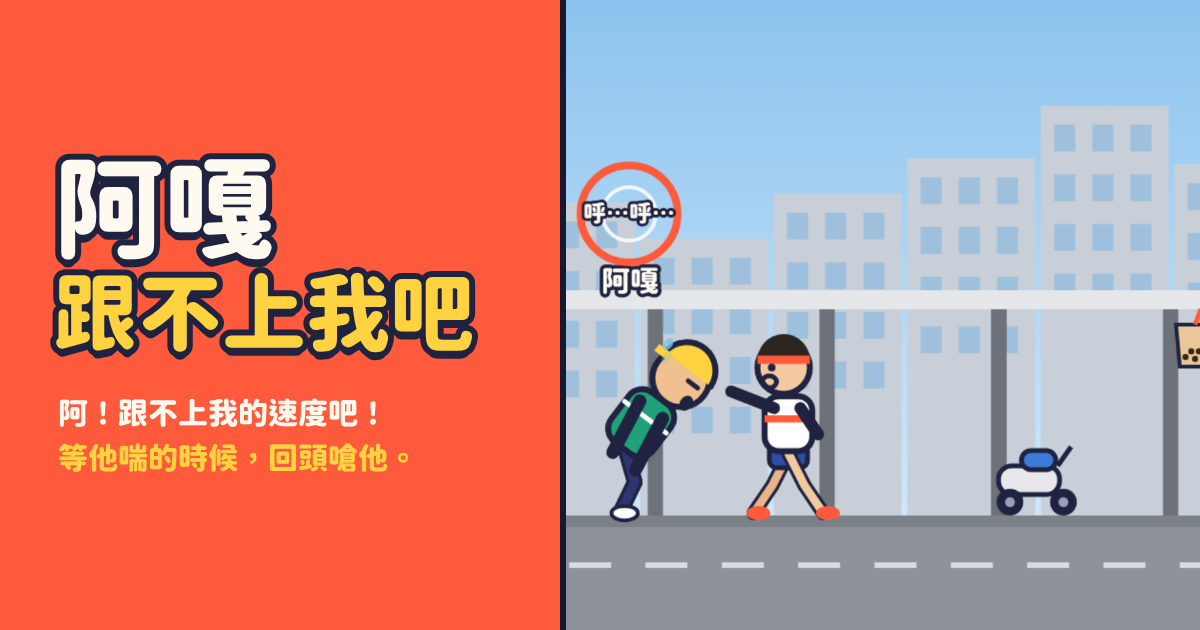
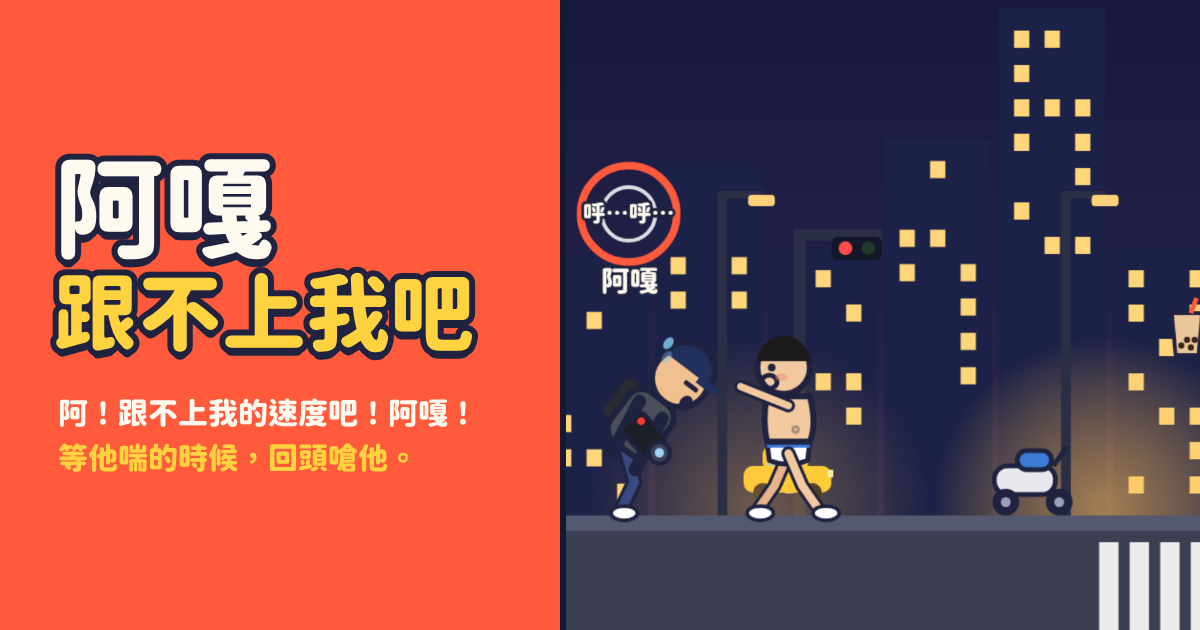
阿嘎跟不上我吧：改成深夜的大道
- 場景改成一路深夜：高架橋下、十字路口、騎樓店家前、半夜空蕩的大道
- 跑在前面的改成只穿一條內褲和球鞋；阿嘎改成舉著攝影機跟拍，畫面左上角有 REC 計時
- 要鏟過去的東西改成停車場柵欄、路牌、騎樓招牌、施工警示帶
- 嗆聲和阿嘎的台詞、封號、被追上時的那一句跟著換
- 跑步的手臂改成一隻在身體後面、一隻在前面
- 預覽圖、首頁卡片和說明跟著更新

Claude-Session: https://claude.ai/code/session_01KxDmhWxjQ4a2uP9nZWftUY

diff --git a/aga/index.html b/aga/index.html
@@ -3,20 +3,20 @@
 <head>
 <meta charset="utf-8">
 <meta name="viewport" content="width=device-width, initial-scale=1, maximum-scale=1, viewport-fit=cover, user-scalable=no">
-<meta name="description" content="阿！跟不上我的速度吧，阿嘎！一路往前跑，跳過機車、鏟過招牌，阿嘎在後面追。等他追到喘的時候回頭嗆他，看你能跑多遠。">
-<meta name="theme-color" content="#3a8fd9">
+<meta name="description" content="深夜的大道上只穿一條內褲往前衝，後面的阿嘎扛著攝影機在追。跳過機車、鏟過路牌，等他追到喘的時候回頭嗆他：阿！跟不上我的速度吧！阿嘎！">
+<meta name="theme-color" content="#151a33">
 <link rel="canonical" href="https://stevenchiang88.github.io/trash_game/aga/">
 <link rel="icon" href="favicon.svg" type="image/svg+xml">
 <link rel="apple-touch-icon" href="apple-touch-icon.png">
 <meta property="og:type" content="website">
 <meta property="og:site_name" content="阿嘎跟不上我吧">
-<meta property="og:title" content="阿嘎跟不上我吧｜阿！跟不上我的速度吧！">
-<meta property="og:description" content="一路往前跑，跳過機車、鏟過招牌，阿嘎在後面追。等他追到喘的時候回頭嗆他，看你能跑多遠。">
+<meta property="og:title" content="阿嘎跟不上我吧｜阿！跟不上我的速度吧！阿嘎！">
+<meta property="og:description" content="深夜的大道上只穿一條內褲往前衝，後面的阿嘎扛著攝影機在追。跳過機車、鏟過路牌，等他追到喘的時候回頭嗆他：阿！跟不上我的速度吧！阿嘎！">
 <meta property="og:url" content="https://stevenchiang88.github.io/trash_game/aga/">
 <meta property="og:image" content="https://stevenchiang88.github.io/trash_game/aga/og.png">
 <meta property="og:image:width" content="1200">
 <meta property="og:image:height" content="630">
-<meta property="og:image:alt" content="一個男生在街上邊跑邊回頭嗆聲，後面一個人追得滿頭大汗">
+<meta property="og:image:alt" content="深夜的大道上，一個只穿內褲的男生邊跑邊回頭嗆聲，後面扛攝影機的人追得彎腰喘氣">
 <meta property="og:locale" content="zh_TW">
 <meta name="twitter:card" content="summary_large_image">
 <style>
@@ -30,14 +30,14 @@
 <meta name="claude:viewport-fit-sides" content="cover">
 <link rel="stylesheet" href="https://fonts.googleapis.com/css2?family=Chiron+GoRound+TC:wght@500;900&family=Fredoka:wght@600;700&display=swap">
 <style>
-/* 版面：從側面看的街道，他從左往右一直跑，阿嘎從左邊追上來。
+/* 版面：從側面看深夜的大道，他只穿一條內褲從左往右一直跑，扛著攝影機的阿嘎從左邊追上來。
    上面是跑了幾公尺和阿嘎離你多遠；下面是「嗆！」按鈕。點畫面跳、往下滑鏟地、往左滑或按「嗆！」回頭嗆聲 */
 :root{
   --ink:#1f2340;        /* 描邊與文字 */
   --paper:#fffaf0;      /* 卡片 */
   --hot:#ff5a3c;        /* 主色：嗆聲、危險 */
   --sun:#ffd23f;        /* 按鈕、強調 */
-  --sky:#3a8fd9;
+  --sky:#151a33;
   --ok:#2fae6f;
   --backdrop:#151a33;
   --display:"Fredoka","Chiron GoRound TC","PingFang TC","Microsoft JhengHei",sans-serif;
@@ -59,6 +59,10 @@ body{background:var(--backdrop);color:var(--ink);font-family:var(--body);font-we
 .gap{display:flex;align-items:center;gap:6px;font-weight:900;font-size:13px;color:var(--paper);text-shadow:var(--sticker)}
 .gap b{font-family:var(--display);font-size:20px;font-variant-numeric:tabular-nums}
 .gap.near b{color:var(--hot)}
+.rec{display:flex;align-items:center;gap:5px;font-weight:900;font-size:12px;color:#fff;text-shadow:var(--sticker)}
+.rec i{width:9px;height:9px;border-radius:50%;background:#ff3b30;border:1.5px solid var(--ink);animation:recb 1s steps(2) infinite}
+.rec b{font-family:var(--display);font-size:14px;font-variant-numeric:tabular-nums}
+@keyframes recb{50%{opacity:.2}}
 .combo{font-weight:900;font-size:13px;color:var(--sun);text-shadow:var(--sticker);min-height:1.2em}
 .side{display:flex;flex-direction:column;gap:8px}
 .icon-btn{pointer-events:auto;width:40px;height:40px;display:grid;place-items:center;border:2.5px solid var(--ink);border-radius:50%;background:var(--paper);color:var(--ink);cursor:pointer;padding:0}
@@ -111,13 +115,14 @@ body{background:var(--backdrop);color:var(--ink);font-family:var(--body);font-we
 </head>
 <body>
 <div id="game">
-  <canvas id="c" aria-label="一個男生在街上往右跑，後面有人在追"></canvas>
+  <canvas id="c" aria-label="深夜的大道上，一個只穿內褲的男生往右跑，後面扛攝影機的人在追"></canvas>
 
   <div class="hud" id="hud" hidden>
     <div class="top">
       <div class="left">
         <div class="dist"><b id="dist">0</b><small>公尺</small></div>
         <div class="gap" id="gapBox">阿嘎離你 <b id="gap">0</b> 公尺</div>
+        <div class="rec"><i></i>REC <b id="recT">00:00</b></div>
         <div class="combo" id="combo"></div>
       </div>
       <div class="side">
@@ -134,7 +139,7 @@ body{background:var(--backdrop);color:var(--ink);font-family:var(--body);font-we
 
   <div class="screen" id="title">
     <h1 class="logo">阿嘎<span>跟不上我吧</span></h1>
-    <p class="tag">阿！跟不上我的速度吧，阿嘎！</p>
+    <p class="tag">阿！跟不上我的速度吧！阿嘎！</p>
     <ul class="how">
       <li><b>點一下</b> 跳</li>
       <li><b>往下滑</b> 鏟地</li>
@@ -169,7 +174,7 @@ body{background:var(--backdrop);color:var(--ink);font-family:var(--body);font-we
   <div class="screen" id="pause" hidden>
     <div class="card">
       <p class="verdict">暫停中</p>
-      <p class="note">離開畫面會自動暫停。阿嘎也會等你，按「繼續」就接著跑。</p>
+      <p class="note">離開畫面會自動暫停。阿嘎也會停下來等你，按「繼續」就接著跑。</p>
       <div class="acts"><button class="btn" id="resume" type="button">繼續</button></div>
     </div>
   </div>
@@ -196,19 +201,20 @@ const JUMP_V=560,GRAV=1500,SLIDE_T=.8,CK=1.25,STAND_H=54*CK,SLIDE_H=24*CK,HALF_W
 const V0=6.5,V_D=.0055,V_MAX=13.5,CH0=.35,CH_D=1/650,GAP0=12,GAP_MAX=22,CATCH=.6;
 const PANT_GAP=[5,7.5],PANT_T=1.05,PERFECT=.4,STUN=[1.2,1.75],RAGE_T=1.5,RAGE_V=2.4,TAUNT_T=.5,TAUNT_CD=.9;
 const STUM_T=1,STUM_K=.35,INV_T=1.1,TEA_T=2.5,TEA_K=1.35;
-const SCENES=[{at:0,name:'學校操場',sky:['#7cc4f0','#bfe6ff'],ground:'#c96a3f',line:'#f4e3c8',kinds:['cone','bin','puddle','banner']},
-  {at:300,name:'騎樓街道',sky:['#5aa9e6','#cfe8fb'],ground:'#8e939b',line:'#d9dce0',kinds:['scooter','bin','sign','dog','cone']},
-  {at:700,name:'夜市',sky:['#22244a','#5b3a6e'],ground:'#5c5f66',line:'#9a9da3',kinds:['scooter','stall','puddle','dog','bin']},
-  {at:1100,name:'河濱夜跑',sky:['#0f1838','#27406e'],ground:'#4c6b4a',line:'#7d9a7a',kinds:['cone','dog','branch','puddle','scooter']}];
+// 一路都是深夜的大道：高架橋下 → 十字路口 → 騎樓店家前 → 半夜空蕩的大道
+const SCENES=[{at:0,name:'高架橋下',kinds:['cone','bin','puddle','gate']},
+  {at:300,name:'十字路口',kinds:['scooter','cone','sign','dog','bin']},
+  {at:700,name:'騎樓店家前',kinds:['scooter','shop','puddle','dog','bin']},
+  {at:1100,name:'半夜空蕩的大道',kinds:['cone','dog','tape','puddle','scooter']}];
 const sceneAt=d=>{let s=SCENES[0];for(const q of SCENES)if(d>=q.at)s=q;return s;};
-// 東西：w、h 是像素；low 要跳、high 要鏟、flat 是水窪（跳過去才不會滑一下）
+// 東西：w、h 是像素；low 要跳、high 要鏟（停車場柵欄、路牌、騎樓招牌、施工警示帶）、flat 是水窪（跳過去才不會滑一下）
 const KIND={cone:{w:14,h:26,t:'low'},bin:{w:22,h:36,t:'low'},scooter:{w:36,h:34,t:'low'},dog:{w:28,h:24,t:'low',v:-1.4},puddle:{w:40,h:4,t:'flat'},
-  banner:{w:40,t:'high'},sign:{w:38,t:'high'},stall:{w:46,t:'high'},branch:{w:44,t:'high'}};
+  gate:{w:44,t:'high'},sign:{w:38,t:'high'},shop:{w:46,t:'high'},tape:{w:44,t:'high'}};
 const HIGH_BOT=GROUND-46;
-const RANKS=[[2000,'阿嘎永遠追不上的男人'],[1500,'河濱一陣風'],[1100,'夜市飛毛腿'],[700,'跑給阿嘎追專家'],[300,'有點快'],[100,'剛熱身'],[0,'一下就被抓到']];
-const TAUNTS=['阿！跟不上我的速度吧，阿嘎！','跟不上我的速度吧！','阿嘎，你太慢了啦！','追得到再說啦！'];
-const AGA_MAD=['你給我站住！','等一下啦！','你再說一次！','可惡！'];
-const AGA_FIRE=['被你看穿了喔？','好啊，衝了喔！','你等著！'];
+const RANKS=[[2000,'阿嘎永遠跟不上的男人'],[1500,'半夜最快的男人'],[1100,'大道飛人'],[700,'跑過三個路口'],[300,'有點快'],[100,'剛熱身'],[0,'一出門就被追上']];
+const TAUNTS=['阿！跟不上我的速度吧！阿嘎！','跟不上我的速度吧！','阿嘎！太慢了啦！','酸民，死好！'];
+const AGA_MAD=['等我一下啦！','鏡頭要跟不上了！','你跑那麼快幹嘛！','我還在拍欸！'];
+const AGA_FIRE=['被你看穿了喔？','好，衝了喔！','這段一定要拍到！'];
 
 /* ───────── 聲音 ───────── */
 const mtof=m=>440*Math.pow(2,(m-69)/12);
@@ -308,7 +314,7 @@ function tick(dt){
   for(let i=parts.length-1;i>=0;i--){const p=parts[i];p.x+=p.vx*dt;p.y+=p.vy*dt;p.vy+=700*dt;if((p.life-=dt)<=0)parts.splice(i,1);}
   if(mode==='caught'){G.t+=dt;if(G.t>1.5)gameOver();return;}
   if(mode!=='play')return;
-  G.t+=dt;G.taunt=Math.max(0,G.taunt-dt);G.cd=Math.max(0,G.cd-dt);G.inv=Math.max(0,G.inv-dt);G.tea=Math.max(0,G.tea-dt);
+  G.t+=dt;G.rec=(G.rec||0)+dt;G.taunt=Math.max(0,G.taunt-dt);G.cd=Math.max(0,G.cd-dt);G.inv=Math.max(0,G.inv-dt);G.tea=Math.max(0,G.tea-dt);
   // 你的速度：踉蹌的時候慢、喝了珍奶快
   const vb=vBase(G.d),stu=G.stum>0?lerp(1,STUM_K,G.stum/STUM_T):1;G.stum=Math.max(0,G.stum-dt);G.v=vb*stu*(G.tea>0?TEA_K:1);
   G.d+=G.v*dt;G.phase+=G.v*dt*1.3;
@@ -322,7 +328,7 @@ function tick(dt){
   else if(a.st==='stun'){av=0;if(a.t<=0){a.st='chase';a.pant=rnd(PANT_GAP[0],PANT_GAP[1])*(1+G.d/2500);a.face='';}}
   else if(a.st==='rage'){av+=RAGE_V;if(a.t<=0){a.st='chase';a.pant=rnd(PANT_GAP[0],PANT_GAP[1])*(1+G.d/2500)*.7;a.face='';}}
   a.run+=av*dt*1.3;G.gap=Math.min(GAP_MAX,G.gap+(G.v-av)*dt);
-  if(G.gap<=CATCH){G.gap=0;mode='caught';G.t=0;Snd.caught();shake=10;say('被阿嘎追上了！',2);Voice.say('抓到你了吧！',{pitch:.8,rate:1.1});return;}
+  if(G.gap<=CATCH){G.gap=0;mode='caught';G.t=0;Snd.caught();shake=10;say('被阿嘎追上了…很累！',2);Voice.say('很累！',{pitch:.95,rate:1.05});return;}
   // 路上的東西
   while(G.next<G.d+30)spawn();
   for(const o of G.obs)if(o.v)o.x+=o.v*dt;
@@ -340,25 +346,35 @@ let cw=1,ch=1,dpr=1,scale=1,ox=0,oy=0,wx0=0,wx1=VW,wy0=0,wy1=VH;
 function resize(){const b=gameEl.getBoundingClientRect();cw=Math.max(1,b.width);ch=Math.max(1,b.height);dpr=Math.min(window.devicePixelRatio||1,2);
   cv.width=Math.round(cw*dpr);cv.height=Math.round(ch*dpr);scale=Math.min(cw/VW,ch/VH);ox=(cw-VW*scale)/2;oy=(ch-VH*scale)/2;wx0=-ox/scale;wx1=(cw-ox)/scale;wy0=-oy/scale;wy1=(ch-oy)/scale;}
 const hash=(i,k)=>{const x=Math.sin(i*127.1+k*311.7)*43758.5453;return x-Math.floor(x);};
+// 深夜的大道：遠處的大樓、高架橋和橋墩、路燈、十字路口的斑馬線和紅綠燈、騎樓的店家
 function drawBack(d){
-  const sc=sceneAt(d),nx=SCENES[SCENES.indexOf(sc)+1],blend=nx?clamp((d-(nx.at-60))/60,0,1):0;
-  const sky=g.createLinearGradient(0,wy0,0,GROUND);sky.addColorStop(0,sc.sky[0]);sky.addColorStop(1,sc.sky[1]);g.fillStyle=sky;g.fillRect(wx0,wy0,wx1-wx0,GROUND-wy0);
-  const night=sc.at>=700;
-  if(night){g.fillStyle='rgba(255,255,255,.8)';for(let i=0;i<30;i++){const x=wx0+hash(i,1)*(wx1-wx0),y=wy0+hash(i,2)*(GROUND-200-wy0);g.fillRect(x,y,1.6,1.6);}g.fillStyle='#fff6cf';g.beginPath();g.arc(290,110,18,0,TAU);g.fill();}
-  else{g.fillStyle='rgba(255,255,255,.85)';for(let i=0;i<5;i++){const x=((hash(i,3)*500-d*2)%520+520)%520-80,y=80+hash(i,4)*120;g.beginPath();g.ellipse(x,y,34,12,0,0,TAU);g.ellipse(x+22,y-8,22,12,0,0,TAU);g.fill();}}
-  // 遠景：建築／攤位／河堤，捲得慢
-  const far=d*PX_M*.25;
-  for(let i=-1;i<8;i++){const w=70,bx=((i*w-far)%(w*8)+w*8)%(w*8)-w+wx0,id=Math.floor((i*w+far)/(w*8))*8+i,h=90+hash(id,5)*110;
-    if(sc.name==='學校操場'){g.fillStyle='#e8d9b8';g.fillRect(bx,GROUND-150,w-4,150);g.fillStyle='#b3532f';g.fillRect(bx,GROUND-158,w-4,10);g.fillStyle='#7aa7c9';for(let r=0;r<3;r++)for(let c=0;c<3;c++)g.fillRect(bx+6+c*20,GROUND-140+r*40,12,18);}
-    else if(sc.name==='河濱夜跑'){g.fillStyle='#1b2a4a';g.fillRect(bx,GROUND-60-h*.4,w-2,60+h*.4);g.fillStyle='#ffe28a';for(let r=0;r<4;r++)if(hash(id,r)>.5)g.fillRect(bx+8+(r%2)*30,GROUND-50-h*.4+r*14,8,6);}
-    else{g.fillStyle=night?'#2b2d4f':'#c9cfd9';g.fillRect(bx,GROUND-h-40,w-3,h+40);g.fillStyle=night?'#ffd36b':'#9fc0dc';for(let r=0;r<4;r++)for(let c=0;c<3;c++)if(!night||hash(id+r,c)>.45)g.fillRect(bx+7+c*20,GROUND-h-30+r*26,11,14);}}
-  if(sc.name==='夜市'){for(let i=0;i<12;i++){const x=((i*36-d*PX_M*.5)%432+432)%432-36+wx0;g.fillStyle=['#ff5a3c','#ffd23f','#5fd1a0'][i%3];g.beginPath();g.arc(x,GROUND-120+Math.sin(i)*4,7,0,TAU);g.fill();g.strokeStyle='rgba(255,255,255,.4)';g.beginPath();g.moveTo(x,GROUND-127);g.lineTo(x+36,GROUND-127);g.stroke();}}
-  if(sc.name==='騎樓街道'){const mx=d*PX_M*.6;for(let i=-1;i<6;i++){const x=((i*90-mx)%540+540)%540-90+wx0;g.fillStyle='#6d717a';g.fillRect(x,GROUND-110,8,110);g.fillStyle='#e5e7ea';g.fillRect(x-4,GROUND-118,100,10);}}
-  // 地面
-  g.fillStyle=sc.ground;g.fillRect(wx0,GROUND,wx1-wx0,wy1-GROUND);
-  g.strokeStyle=sc.line;g.lineWidth=3;g.setLineDash([22,18]);g.lineDashOffset=d*PX_M;g.beginPath();g.moveTo(wx0,GROUND+26);g.lineTo(wx1,GROUND+26);g.stroke();g.setLineDash([]);
-  g.fillStyle='rgba(0,0,0,.12)';g.fillRect(wx0,GROUND,wx1-wx0,6);
-  if(blend>0){g.fillStyle=`rgba(0,0,0,${blend*.25})`;g.fillRect(wx0,wy0,wx1-wx0,wy1-wy0);}
+  const sc=sceneAt(d),i0=SCENES.indexOf(sc);
+  const sky=g.createLinearGradient(0,wy0,0,GROUND);sky.addColorStop(0,'#0b1030');sky.addColorStop(1,'#2b2650');g.fillStyle=sky;g.fillRect(wx0,wy0,wx1-wx0,GROUND-wy0);
+  g.fillStyle='rgba(255,255,255,.7)';for(let i=0;i<26;i++){const x=wx0+hash(i,1)*(wx1-wx0),y=wy0+hash(i,2)*(200-wy0);g.fillRect(x,y,1.5,1.5);}
+  // 遠處的大樓，有些窗戶亮著
+  const far=d*PX_M*.15;for(let i=-1;i<9;i++){const w=60,bx=((i*w-far)%(w*9)+w*9)%(w*9)-w+wx0,id=Math.floor((i*w+far)/(w*9))*9+i,h=120+hash(id,5)*150;
+    g.fillStyle='#1c2147';g.fillRect(bx,GROUND-h,w-4,h);g.fillStyle='#ffd77a';for(let r=0;r<7;r++)for(let c=0;c<3;c++)if(hash(id*7+r,c)>.62)g.fillRect(bx+8+c*16,GROUND-h+12+r*18,8,9);}
+  // 騎樓店家（第三段）：亮著的店面和招牌
+  if(i0===2){const mx=d*PX_M*.7;for(let i=-1;i<6;i++){const w=96,x=((i*w-mx)%(w*6)+w*6)%(w*6)-w+wx0,id=Math.floor((i*w+mx)/(w*6))*6+i,k=((id%4)+4)%4;
+      g.fillStyle='#3a3557';g.fillRect(x,GROUND-150,w-2,150);g.fillStyle=['#fff3c2','#d8fff0','#ffe0c8','#e3e8ff'][k];g.fillRect(x+8,GROUND-92,w-18,92);
+      g.fillStyle=['#ff5a3c','#2fae6f','#ffd23f','#3d7bd9'][k];g.fillRect(x+6,GROUND-112,w-14,18);g.fillStyle='#fff';g.font='900 11px '+FONT;g.textAlign='center';g.fillText(['早餐','藥局','飲料','24 小時'][k],x+w/2-2,GROUND-99);g.textAlign='left';
+      g.fillStyle='#4a4468';g.fillRect(x,GROUND-150,6,150);}}
+  // 高架橋：橋面在上面，橋墩一根一根
+  if(i0===0||i0===3){const mx=d*PX_M*.85;g.fillStyle='#4b4f68';g.fillRect(wx0,GROUND-232,wx1-wx0,26);g.fillStyle='#5c6180';g.fillRect(wx0,GROUND-236,wx1-wx0,6);g.fillStyle='#363a52';g.fillRect(wx0,GROUND-206,wx1-wx0,5);
+    for(let i=-1;i<4;i++){const x=((i*150-mx)%600+600)%600-150+wx0;g.fillStyle='#565a74';g.fillRect(x,GROUND-206,30,206);g.fillStyle='rgba(0,0,0,.18)';g.fillRect(x+20,GROUND-206,10,206);}}
+  // 十字路口：紅綠燈、遠處開過去的計程車
+  if(i0===1){const mx=d*PX_M;for(let i=-1;i<3;i++){const x=((i*260-mx)%520+520)%520-80+wx0;g.fillStyle='#2b2f45';g.fillRect(x,GROUND-150,6,150);g.fillRect(x,GROUND-150,46,6);
+      g.fillStyle='#14172a';rrect(g,x+20,GROUND-146,26,12,3);g.fill();const on=(time*.5+i)%3<1.5;g.fillStyle=on?'#ff4d4d':'#3a1d1d';g.beginPath();g.arc(x+27,GROUND-140,3.6,0,TAU);g.fill();g.fillStyle=on?'#1f3a2a':'#46e08a';g.beginPath();g.arc(x+39,GROUND-140,3.6,0,TAU);g.fill();}
+    const tx=((time*90)%(wx1-wx0+200))+wx0-100;g.fillStyle='#ffcf2e';rrect(g,tx,GROUND-26,46,14,5);g.fill();g.fillStyle='#ffcf2e';rrect(g,tx+10,GROUND-36,24,12,4);g.fill();g.fillStyle='#9fd3f5';g.fillRect(tx+13,GROUND-33,8,7);g.fillRect(tx+23,GROUND-33,8,7);
+    g.fillStyle='#1a1a1a';g.beginPath();g.arc(tx+10,GROUND-12,5,0,TAU);g.arc(tx+36,GROUND-12,5,0,TAU);g.fill();g.fillStyle='#fff6c4';g.fillRect(tx+44,GROUND-24,3,4);}
+  // 路燈和灑下來的光
+  const lx=d*PX_M;for(let i=-1;i<4;i++){const x=((i*180-lx)%540+540)%540-60+wx0;const lg=g.createRadialGradient(x+22,GROUND-4,4,x+22,GROUND-4,90);lg.addColorStop(0,'rgba(255,190,90,.35)');lg.addColorStop(1,'rgba(255,190,90,0)');
+    g.fillStyle=lg;g.fillRect(x-70,GROUND-100,184,104);g.fillStyle='#2b2f45';g.fillRect(x,GROUND-170,5,170);g.fillRect(x,GROUND-170,24,4);g.fillStyle='#ffd27a';rrect(g,x+16,GROUND-168,14,6,2);g.fill();}
+  // 路面：人行道邊緣、柏油、車道線；十字路口段有斑馬線
+  g.fillStyle='#3c3f52';g.fillRect(wx0,GROUND,wx1-wx0,wy1-GROUND);g.fillStyle='#55596f';g.fillRect(wx0,GROUND,wx1-wx0,8);
+  if(i0===1){const zx=d*PX_M;for(let i=-1;i<3;i++){const x=((i*400-zx)%800+800)%800-120+wx0;g.fillStyle='rgba(240,240,240,.85)';for(let k=0;k<6;k++)g.fillRect(x+k*16,GROUND+14,10,52);}}
+  g.strokeStyle='#d8c26a';g.lineWidth=3;g.setLineDash([22,18]);g.lineDashOffset=d*PX_M;g.beginPath();g.moveTo(wx0,GROUND+80);g.lineTo(wx1,GROUND+80);g.stroke();g.setLineDash([]);
+  if(i0===3){g.fillStyle='rgba(180,190,220,.12)';g.fillRect(wx0,GROUND-120,wx1-wx0,120);}
 }
 function drawObs(o){const sx=sxOf(o.x);if(sx<wx0-60||sx>wx1+60)return;g.save();g.translate(sx,GROUND);if(o.hit&&o.t!=='flat'){g.rotate(-.5);g.translate(0,-6);}g.lineJoin='round';g.strokeStyle=INK;g.lineWidth=2.5;
   if(o.k==='cone'){g.fillStyle='#ff7a2e';g.beginPath();g.moveTo(-7,0);g.lineTo(0,-26);g.lineTo(7,0);g.closePath();g.fill();g.stroke();g.fillStyle='#fff';g.fillRect(-4,-14,8,4);g.fillStyle='#ff7a2e';g.fillRect(-10,-3,20,4);g.strokeRect(-10,-3,20,4);}
@@ -368,62 +384,71 @@ function drawObs(o){const sx=sxOf(o.x);if(sx<wx0-60||sx>wx1+60)return;g.save();g
   else if(o.k==='dog'){const b=Math.sin(time*16)*2;g.fillStyle='#c98a4a';rrect(g,-14,-20+b,26,13,6);g.fill();g.stroke();g.beginPath();g.arc(-15,-22+b,7,0,TAU);g.fill();g.stroke();g.fillStyle=INK;g.beginPath();g.arc(-17,-23+b,1.3,0,TAU);g.fill();
     g.strokeStyle=INK;g.lineWidth=3;g.beginPath();for(const x of[-9,7]){g.moveTo(x,-8+b);g.lineTo(x+Math.sin(time*16+x)*3,0);}g.moveTo(12,-16+b);g.lineTo(18,-22+b);g.stroke();}
   else if(o.k==='puddle'){g.fillStyle='rgba(120,190,240,.75)';g.beginPath();g.ellipse(0,-1,20,4,0,0,TAU);g.fill();g.strokeStyle='rgba(255,255,255,.6)';g.lineWidth=1.5;g.beginPath();g.ellipse(-6,-1,8,1.5,0,0,TAU);g.stroke();}
-  else{// 要鏟過去的：布條、招牌、攤位遮雨棚、樹枝，下緣在 HIGH_BOT
+  else{// 要鏟過去的：停車場柵欄、路牌、騎樓招牌、施工警示帶，下緣在 HIGH_BOT
     const w=o.w,top=-150,bot=HIGH_BOT-GROUND;g.strokeStyle=INK;g.lineWidth=3;
-    if(o.k==='branch'){g.strokeStyle='#5b3d23';g.lineWidth=7;g.beginPath();g.moveTo(-w,top);g.quadraticCurveTo(0,bot-14,w/2,bot);g.stroke();g.fillStyle='#3f7a3a';for(let i=0;i<5;i++){g.beginPath();g.arc(-w/2+i*12,bot-6-hash(i,9)*10,8,0,TAU);g.fill();}}
+    if(o.k==='gate'){g.fillStyle='#d9d9d9';g.fillRect(w/2-4,bot-6,12,-bot+6);g.strokeRect(w/2-4,bot-6,12,-bot+6);g.save();g.translate(w/2,bot-3);g.fillStyle='#fff';g.fillRect(-w-14,-4,w+14,8);g.strokeRect(-w-14,-4,w+14,8);g.fillStyle=HOT;for(let k=0;k<3;k++)g.fillRect(-w-10+k*18,-4,8,8);g.restore();}
+    else if(o.k==='tape'){g.fillStyle='#ff7a2e';for(const x of[-w/2,w/2]){g.beginPath();g.moveTo(x-6,0);g.lineTo(x,bot-10);g.lineTo(x+6,0);g.closePath();g.fill();g.stroke();}
+      g.fillStyle='#ffd23f';g.fillRect(-w/2,bot-8,w,8);g.strokeRect(-w/2,bot-8,w,8);g.fillStyle=INK;for(let k=0;k<4;k++){g.beginPath();g.moveTo(-w/2+k*11,bot-8);g.lineTo(-w/2+k*11+6,bot-8);g.lineTo(-w/2+k*11+1,bot);g.lineTo(-w/2+k*11-5,bot);g.closePath();g.fill();}}
     else{g.beginPath();g.moveTo(-w/2,top);g.lineTo(-w/2,bot);g.moveTo(w/2,top);g.lineTo(w/2,bot);g.stroke();
-      const col=o.k==='banner'?'#fff':o.k==='sign'?'#ffd23f':'#ff5a3c';g.fillStyle=col;rrect(g,-w/2-6,bot-30,w+12,30,4);g.fill();g.stroke();
-      g.fillStyle=o.k==='banner'?HOT:INK;g.font='900 11px '+FONT;g.textAlign='center';g.fillText(o.k==='banner'?'運動會':o.k==='sign'?'牙科':'雞排',0,bot-11);g.textAlign='left';}}
+      const col=o.k==='sign'?'#1f7a4d':'#ff5a3c';g.fillStyle=col;rrect(g,-w/2-6,bot-30,w+12,30,4);g.fill();g.stroke();
+      g.fillStyle='#fff';g.font='900 11px '+FONT;g.textAlign='center';g.fillText(o.k==='sign'?'市民大道':'雞排',0,bot-11);g.textAlign='left';}}
   g.restore();}
 function drawTea(t){if(t.got)return;const sx=sxOf(t.x);if(sx<wx0-20||sx>wx1+20)return;const y=(t.hi?GROUND-92:GROUND-26)+Math.sin(time*5+t.x)*3;
   g.save();g.translate(sx,y);g.strokeStyle=INK;g.lineWidth=2;g.fillStyle='#e9c79a';g.beginPath();g.moveTo(-8,-11);g.lineTo(8,-11);g.lineTo(6,11);g.lineTo(-6,11);g.closePath();g.fill();g.stroke();
   g.fillStyle='#3a2416';for(const[x,y2]of[[-3,6],[2,7],[0,3],[4,3]]){g.beginPath();g.arc(x,y2,1.6,0,TAU);g.fill();}g.strokeStyle='#ff5a3c';g.lineWidth=2.5;g.beginPath();g.moveTo(2,-11);g.lineTo(5,-19);g.stroke();g.restore();}
-// 他：白 T、短褲、球鞋、綁頭帶；回頭嗆的時候轉頭、手指後面
+// 他：只穿一條白色內褲和球鞋，邊跑邊喊；回頭嗆的時候轉頭、手指後面
 function drawRunner(x,feet,o){
-  g.save();g.translate(x,feet);g.scale(CK,CK);g.lineJoin='round';g.lineCap='round';const ph=o.phase,sl=o.slide>0,back=o.taunt>0,st=o.stum>0;
+  g.save();g.translate(x,feet);g.scale(CK,CK);g.lineJoin='round';g.lineCap='round';const ph=o.phase,sl=o.slide>0,back=o.taunt>0,st=o.stum>0,SK='#f3c9a0',SK2='#e9b48a';
   if(sl){g.rotate(-.9);g.translate(-8,8);}else if(st)g.rotate(.25);
-  const leg=(a,c)=>{g.strokeStyle=INK;g.lineWidth=6;g.beginPath();g.moveTo(0,-26);const kx=Math.sin(a)*9,ky=-14+Math.abs(Math.cos(a))*2;g.lineTo(kx,ky);g.lineTo(kx+Math.sin(a-.9)*8,o.air?-6:-1);g.stroke();
-    g.strokeStyle=c;g.lineWidth=3.5;g.beginPath();g.moveTo(0,-26);g.lineTo(kx,ky);g.lineTo(kx+Math.sin(a-.9)*8,o.air?-6:-1);g.stroke();g.fillStyle='#ff5a3c';g.beginPath();g.ellipse(kx+Math.sin(a-.9)*8+2,(o.air?-6:-1),5,3,0,0,TAU);g.fill();};
-  leg(ph+Math.PI,'#e9b48a');
-  g.fillStyle='#2b4fa8';rrect(g,-8,-30,16,10,3);g.fill();g.strokeStyle=INK;g.lineWidth=2;g.stroke();
-  leg(ph,'#f3c9a0');
-  g.fillStyle='#fff';rrect(g,-10,-50,20,23,6);g.fill();g.strokeStyle=INK;g.lineWidth=2.5;g.stroke();g.fillStyle='#ff5a3c';g.fillRect(-10,-42,20,3);
-  // 手
-  g.strokeStyle=INK;g.lineWidth=5;g.beginPath();
-  if(back){g.moveTo(-6,-45);g.lineTo(-24,-52);}else{g.moveTo(-4,-45);g.lineTo(-4-Math.sin(ph)*10,-34);}
-  g.moveTo(5,-45);g.lineTo(5+Math.sin(ph)*10,-34);g.stroke();
-  // 頭
-  const hx=back?-2:2;g.fillStyle='#f3c9a0';g.strokeStyle=INK;g.lineWidth=2.5;g.beginPath();g.arc(hx,-62,11,0,TAU);g.fill();g.stroke();
-  g.fillStyle='#2b2420';g.beginPath();g.arc(hx,-65,11,Math.PI*1.05,Math.PI*1.95);g.fill();g.fillStyle=HOT;g.fillRect(hx-11,-67,22,3.5);
+  const leg=(a,c)=>{g.strokeStyle=INK;g.lineWidth=6;g.beginPath();g.moveTo(0,-26);const kx=Math.sin(a)*9,ky=-14+Math.abs(Math.cos(a))*2,fy=o.air?-6:-1;g.lineTo(kx,ky);g.lineTo(kx+Math.sin(a-.9)*8,fy);g.stroke();
+    g.strokeStyle=c;g.lineWidth=3.5;g.beginPath();g.moveTo(0,-26);g.lineTo(kx,ky);g.lineTo(kx+Math.sin(a-.9)*8,fy);g.stroke();g.fillStyle='#fff';g.beginPath();g.ellipse(kx+Math.sin(a-.9)*8+2,fy,5.5,3,0,0,TAU);g.fill();g.strokeStyle=INK;g.lineWidth=1.5;g.stroke();};
+  leg(ph+Math.PI,SK2);
+  // 內褲
+  g.fillStyle='#fff';g.beginPath();g.moveTo(-9,-31);g.lineTo(9,-31);g.lineTo(8,-23);g.quadraticCurveTo(0,-20,-8,-23);g.closePath();g.fill();g.strokeStyle=INK;g.lineWidth=2;g.stroke();g.fillStyle='#3d7bd9';g.fillRect(-9,-31,18,2.6);
+  leg(ph,SK);
+  // 手臂：遠的那隻畫在身體後面，近的那隻畫在前面；回頭嗆的時候近的那隻往後指
+  const arm=(k,c,pt)=>{const ex=pt?-20:k*12,ey=pt?-54:-36;g.strokeStyle=INK;g.lineWidth=5.5;g.beginPath();g.moveTo(0,-46);g.lineTo(ex,ey);g.stroke();g.strokeStyle=c;g.lineWidth=3;g.beginPath();g.moveTo(0,-46);g.lineTo(ex,ey);g.stroke();};
+  arm(-Math.sin(ph),SK2,false);
+  // 光著上身，有一點肚子
+  g.fillStyle=SK;g.beginPath();g.moveTo(-9,-50);g.lineTo(9,-50);g.quadraticCurveTo(12,-38,9,-31);g.lineTo(-9,-31);g.quadraticCurveTo(-11,-40,-9,-50);g.closePath();g.fill();g.strokeStyle=INK;g.lineWidth=2.5;g.stroke();
+  g.strokeStyle='rgba(31,35,64,.35)';g.lineWidth=1.2;g.beginPath();g.arc(3,-36,1.2,0,TAU);g.stroke();
+  arm(back?-1:Math.sin(ph),SK,back);
+  const hx=back?-2:2;g.fillStyle=SK;g.strokeStyle=INK;g.lineWidth=2.5;g.beginPath();g.arc(hx,-62,11,0,TAU);g.fill();g.stroke();
+  g.fillStyle='#1d1a1a';g.beginPath();g.arc(hx,-64,11.2,Math.PI*1.02,Math.PI*1.98);g.fill();
   const fx=back?-1:1;g.fillStyle=INK;g.beginPath();g.arc(hx+fx*5,-62,1.6,0,TAU);g.fill();
-  g.lineWidth=2;g.beginPath();if(back){g.ellipse(hx+fx*6,-56,3,2.5,0,0,TAU);g.stroke();}else if(st){g.moveTo(hx+fx*2,-56);g.lineTo(hx+fx*8,-57);g.stroke();}else{g.arc(hx+fx*5,-58,3,.2,Math.PI-.2);g.stroke();}
+  g.lineWidth=2;g.beginPath();if(back){g.ellipse(hx+fx*6,-56,3.2,2.8,0,0,TAU);g.stroke();}else if(st){g.moveTo(hx+fx*2,-56);g.lineTo(hx+fx*8,-57);g.stroke();}else{g.ellipse(hx+fx*6,-56.5,2.2,1.8,0,0,TAU);g.stroke();}
+  g.fillStyle='rgba(242,140,130,.5)';g.beginPath();g.ellipse(hx+fx*1,-58,2.6,1.6,0,0,TAU);g.fill();
   g.restore();}
-// 阿嘎：運動外套、帽子反戴、汗；喘的時候手撐膝蓋，被嗆到在原地跳腳，被激怒滿臉通紅往前衝
+// 阿嘎：扛著攝影機在後面跟拍，戴帽子、揹包包；喘的時候手撐膝蓋、攝影機垂在胸前，被嗆到在原地跳腳，被激怒滿臉通紅往前衝
 function drawAga(x,a){
   const feet=GROUND,st=a.st,ph=a.run;g.save();g.translate(x,feet);g.scale(CK,CK);g.lineJoin='round';g.lineCap='round';
   const bend=st==='pant'?1:0,stomp=st==='stun'?Math.abs(Math.sin(time*14))*6:0;g.translate(0,-stomp);
   const leg=(an,c)=>{const A=st==='pant'||st==='stun'?0:an;g.strokeStyle=INK;g.lineWidth=6.5;g.beginPath();g.moveTo(0,-28);const kx=Math.sin(A)*9+bend*4,ky=-14;g.lineTo(kx,ky);g.lineTo(kx+Math.sin(A-.9)*8,-1);g.stroke();
     g.strokeStyle=c;g.lineWidth=4;g.beginPath();g.moveTo(0,-28);g.lineTo(kx,ky);g.lineTo(kx+Math.sin(A-.9)*8,-1);g.stroke();g.fillStyle='#fff';g.beginPath();g.ellipse(kx+Math.sin(A-.9)*8+2,-1,5.5,3,0,0,TAU);g.fill();g.strokeStyle=INK;g.lineWidth=1.5;g.stroke();};
-  leg(ph+Math.PI,'#23285a');leg(ph,'#2e3570');
+  leg(ph+Math.PI,'#2c3a66');leg(ph,'#3a4a80');
   g.save();g.translate(0,-30);g.rotate(bend*.65);
-  g.fillStyle='#21a07a';rrect(g,-11,-24,22,26,7);g.fill();g.strokeStyle=INK;g.lineWidth=2.5;g.stroke();g.strokeStyle='#fff';g.lineWidth=2;g.beginPath();g.moveTo(-11,-14);g.lineTo(11,-14);g.stroke();
+  g.fillStyle='#2b2b33';rrect(g,-17,-24,9,20,3);g.fill();g.strokeStyle=INK;g.lineWidth=2;g.stroke();
+  g.fillStyle='#4a4f5a';rrect(g,-11,-24,22,26,7);g.fill();g.strokeStyle=INK;g.lineWidth=2.5;g.stroke();
+  const red=st==='rage'||st==='stun',blink=(time*2|0)%2===0;
+  // 攝影機：跑的時候舉在臉前面對著前方，喘的時候垂在胸前
+  const cam=(cx,cy,rot)=>{g.save();g.translate(cx,cy);g.rotate(rot);g.fillStyle='#1d1f27';rrect(g,-7,-6,16,12,2);g.fill();g.strokeStyle=INK;g.lineWidth=1.6;g.stroke();g.fillStyle='#3b4258';g.beginPath();g.arc(11,0,4.5,0,TAU);g.fill();g.stroke();
+    g.fillStyle='#9fd3f5';g.beginPath();g.arc(11,0,2,0,TAU);g.fill();if(blink){g.fillStyle='#ff3b30';g.beginPath();g.arc(-4,-3,1.6,0,TAU);g.fill();}g.restore();};
   g.strokeStyle=INK;g.lineWidth=5.5;g.beginPath();
-  if(st==='pant'){g.moveTo(-6,-18);g.lineTo(-2,6);g.moveTo(6,-18);g.lineTo(10,6);}
-  else if(st==='stun'){const w=Math.sin(time*18)*.6;g.moveTo(-8,-18);g.lineTo(-18,-34+w*6);g.moveTo(8,-18);g.lineTo(18,-34-w*6);}
-  else{g.moveTo(-6,-18);g.lineTo(-6+Math.sin(ph)*11,-6);g.moveTo(6,-18);g.lineTo(6-Math.sin(ph)*11,-6);}g.stroke();
-  const red=st==='rage'||st==='stun';g.fillStyle=red?'#f29a7a':'#f0c08f';g.strokeStyle=INK;g.lineWidth=2.5;g.beginPath();g.arc(2,-36,12,0,TAU);g.fill();g.stroke();
-  g.fillStyle='#ffd23f';g.beginPath();g.arc(2,-40,12,Math.PI*1.02,Math.PI*1.98);g.fill();g.stroke();g.fillRect(-14,-42,8,3.5);
+  if(st==='pant'){g.moveTo(-6,-18);g.lineTo(-2,6);g.moveTo(6,-18);g.lineTo(10,6);g.stroke();cam(3,-8,.2);}
+  else if(st==='stun'){const w=Math.sin(time*18)*.6;g.moveTo(-8,-18);g.lineTo(-18,-34+w*6);g.moveTo(8,-18);g.lineTo(16,-30-w*4);g.stroke();cam(18,-34-w*4,-.4);}
+  else{g.moveTo(-5,-18);g.lineTo(10,-30);g.moveTo(6,-18);g.lineTo(14,-30);g.stroke();cam(16,-34,0);}
+  g.fillStyle=red?'#f29a7a':'#f0c08f';g.strokeStyle=INK;g.lineWidth=2.5;g.beginPath();g.arc(2,-36,12,0,TAU);g.fill();g.stroke();
+  g.fillStyle='#22305e';g.beginPath();g.arc(2,-40,12,Math.PI*1.02,Math.PI*1.98);g.fill();g.stroke();g.fillRect(8,-42,10,3.5);
   g.fillStyle=INK;g.lineWidth=2;
-  if(st==='stun'){g.beginPath();g.moveTo(3,-40);g.lineTo(9,-37);g.moveTo(13,-40);g.lineTo(9,-37);g.stroke();g.beginPath();g.ellipse(10,-29,3,2.2,0,0,TAU);g.fill();}
-  else if(st==='pant'){g.beginPath();g.moveTo(5,-37);g.lineTo(10,-37);g.stroke();g.beginPath();g.ellipse(10,-29,2.6,3.4,0,0,TAU);g.fill();}
-  else{g.beginPath();g.arc(8,-37,1.7,0,TAU);g.fill();g.beginPath();if(st==='rage'){g.moveTo(4,-31);g.lineTo(13,-31);}else g.arc(9,-31,3,0,Math.PI);g.stroke();}
+  if(st==='stun'){g.beginPath();g.moveTo(3,-38);g.lineTo(9,-35);g.moveTo(13,-38);g.lineTo(9,-35);g.stroke();g.beginPath();g.ellipse(10,-28,3,2.2,0,0,TAU);g.fill();}
+  else if(st==='pant'){g.beginPath();g.moveTo(5,-36);g.lineTo(10,-36);g.stroke();g.beginPath();g.ellipse(10,-29,2.6,3.4,0,0,TAU);g.fill();}
+  else{g.beginPath();g.arc(6,-36,1.7,0,TAU);g.fill();g.beginPath();if(st==='rage'){g.moveTo(2,-30);g.lineTo(10,-30);}else g.arc(7,-30,2.6,0,Math.PI);g.stroke();}
   g.fillStyle='#7fc4e8';for(let i=0;i<(st==='pant'?2:1);i++){const d2=(time*2+i*.5)%1;g.globalAlpha=1-d2;g.beginPath();g.ellipse(-8-i*3,-46+d2*10,1.8,2.8,0,0,TAU);g.fill();}g.globalAlpha=1;
   g.restore();
   if(st==='stun'&&!reduced){g.strokeStyle='rgba(255,255,255,.85)';g.lineWidth=2;for(let i=0;i<3;i++){const t2=(time*2+i/3)%1;g.globalAlpha=1-t2;g.beginPath();g.arc(-6+i*8,-80-t2*16,4+t2*3,0,TAU);g.stroke();}g.globalAlpha=1;}
   if(st==='rage'&&!reduced){g.strokeStyle='rgba(255,255,255,.7)';g.lineWidth=2;for(let i=0;i<4;i++){const yy=-60+i*14,ll=20+hash(i,(time*8)|0)*20;g.beginPath();g.moveTo(-20,yy);g.lineTo(-20-ll,yy);g.stroke();}}
   g.fillStyle=PAPER;g.font='900 12px '+FONT;g.textAlign='center';g.lineWidth=3;g.strokeStyle=INK;g.strokeText('阿嘎',2,-94);g.fillText('阿嘎',2,-94);g.textAlign='left';
   g.restore();}
-// 他在喘：頭上的圈從大縮到小，縮到最小那一段（紅色）嗆最準
 function drawPantRing(x,y,a){const k=clamp(a.t/PANT_T,0,1),r=14+k*30,perf=k<=PERFECT;
   g.save();g.strokeStyle=perf?HOT:SUN;g.lineWidth=4;g.beginPath();g.arc(x,y,r,0,TAU);g.stroke();g.strokeStyle='rgba(255,255,255,.85)';g.lineWidth=2;g.beginPath();g.arc(x,y,14,0,TAU);g.stroke();
   g.fillStyle=PAPER;g.font='900 12px '+FONT;g.textAlign='center';g.lineWidth=3;g.strokeStyle=INK;g.strokeText('呼…呼…',x,y+4);g.fillText('呼…呼…',x,y+4);g.textAlign='left';g.restore();}
@@ -449,20 +474,21 @@ function render(){
 }
 
 /* ───────── HUD、畫面 ───────── */
-const el={hud:$('hud'),dist:$('dist'),gap:$('gap'),gapBox:$('gapBox'),combo:$('combo'),cap:$('cap'),title:$('title'),over:$('over'),best:$('best'),mute:$('mute'),taunt:$('taunt'),hint:$('hint')};
-let lastD=-1,lastG='',lastC=null,lastCap=null,lastT='';
+const el={recT:$('recT'),hud:$('hud'),dist:$('dist'),gap:$('gap'),gapBox:$('gapBox'),combo:$('combo'),cap:$('cap'),title:$('title'),over:$('over'),best:$('best'),mute:$('mute'),taunt:$('taunt'),hint:$('hint')};
+let lastD=-1,lastG='',lastC=null,lastCap=null,lastT='',lastR='';
 function hud(){if(!G)return;
   const dd=Math.floor(G.d);if(dd!==lastD){lastD=dd;el.dist.textContent=dd;}
+  const sec=Math.floor(G.rec||0),rt=String(Math.floor(sec/60)).padStart(2,'0')+':'+String(sec%60).padStart(2,'0');if(rt!==lastR){lastR=rt;el.recT.textContent=rt;}
   const gg=G.gap.toFixed(1);if(gg!==lastG){lastG=gg;el.gap.textContent=gg;el.gapBox.classList.toggle('near',G.gap<4);}
   const cb=G.streak>=2?`連續嗆成功 ×${G.streak}`:'';if(cb!==lastC){lastC=cb;el.combo.textContent=cb;}
-  let t='';if(time<capUntil)t=capText;else if(mode==='play'){if(G.d<25)t='點畫面跳過障礙，往下滑可以鏟過招牌';else if(G.aga.st==='pant')t='阿嘎在喘！現在回頭嗆他！';else if(G.gap<3)t='快被追上了！';}
+  let t='';if(time<capUntil)t=capText;else if(mode==='play'){if(G.d<25)t='點畫面跳過障礙，往下滑可以鏟過路牌';else if(G.aga.st==='pant')t='阿嘎在喘！現在回頭嗆他！';else if(G.gap<3)t='快被追上了！';}
   if(t!==lastCap){lastCap=t;el.cap.textContent=t;}
   const ts=G.cd>0?'cool':G.aga.st==='pant'?'ready':'';if(ts!==lastT){lastT=ts;el.taunt.classList.toggle('cool',ts==='cool');el.taunt.classList.toggle('ready',ts==='ready');}
   el.hint.hidden=G.d>120;
 }
 const RANK=d=>RANKS.find(r=>d>=r[0])[1];
 function start(){Snd.init();newGame();mode='play';el.title.hidden=true;el.over.hidden=true;el.hud.hidden=false;lastD=-1;lastG='';lastC=null;lastCap=null;lastT='';paused=false;$('pause').hidden=true;
-  say('阿！跟不上我的速度吧，阿嘎！',2.2);Voice.say('阿！跟不上我的速度吧，阿嘎！');}
+  say('阿！跟不上我的速度吧！阿嘎！',2.2);Voice.say('阿！跟不上我的速度吧！阿嘎！');}
 function gameOver(){mode='over';const d=Math.floor(G.d),score=Math.round(d+G.score);if(d>best){best=d;store.set('ag.best',String(d));}
   $('ovDist').textContent=d;$('ovScore').textContent=score.toLocaleString('en-US');$('ovBest').textContent=best+' 公尺';$('ovTaunt').textContent=`${G.good+G.perfect} 次（完美 ${G.perfect}）`;$('ovRank').textContent=RANK(d);
   $('ovWhere').textContent=sceneAt(G.d).name+(G.hits?`，路上撞到 ${G.hits} 次`:'');$('copied').textContent='';el.hud.hidden=true;el.over.hidden=false;showBest();$('again').focus({preventScroll:true});}
@@ -512,7 +538,7 @@ $('pauseBtn').addEventListener('click',()=>setPaused(true));
 $('resume').addEventListener('click',()=>setPaused(false));
 el.mute.addEventListener('click',()=>{Snd.init();Snd.setOn(!Snd.on);muteIcon();});
 $('share').addEventListener('click',async()=>{const link=document.querySelector('link[rel=canonical]'),out=$('copied');const d=Math.floor(G.d);
-  const text=`我跑了 ${d} 公尺才被阿嘎追上，回頭嗆了他 ${G.good+G.perfect} 次（${RANK(d)}）。阿！跟不上我的速度吧！`+(link?' '+link.href:'');
+  const text=`半夜只穿一條內褲跑了 ${d} 公尺才被阿嘎追上，回頭嗆了他 ${G.good+G.perfect} 次（${RANK(d)}）。阿！跟不上我的速度吧！阿嘎！`+(link?' '+link.href:'');
   try{await navigator.clipboard.writeText(text);out.textContent='已複製，貼到脆上嗆朋友吧';}
   catch(e){out.textContent=text;const r=document.createRange();r.selectNodeContents(out);const s=getSelection();s.removeAllRanges();s.addRange(r);}});
 window.addEventListener('resize',resize);

diff --git a/index.html b/index.html
@@ -124,10 +124,10 @@ h1 span{color:var(--sun)}
       </li>
       <li>
         <a class="game" href="aga/">
-          <img src="aga/og.png" width="1200" height="630" alt="一個男生在街上邊跑邊回頭嗆聲，後面一個人追得彎腰喘氣">
+          <img src="aga/og.png" width="1200" height="630" alt="深夜的大道上，一個只穿內褲的男生邊跑邊回頭嗆聲，後面扛攝影機的人追得彎腰喘氣">
           <div class="info">
             <h2>阿嘎跟不上我吧</h2>
-            <p>阿！跟不上我的速度吧，阿嘎！一路往前跑，跳過機車、鏟過招牌，阿嘎在後面追。等他追到喘的時候回頭嗆他，抓對時機他會氣到停下來。</p>
+            <p>阿！跟不上我的速度吧！阿嘎！深夜的大道上只穿一條內褲往前衝，扛著攝影機的阿嘎在後面追。跳過機車、鏟過路牌，等他追到喘的時候回頭嗆他，抓對時機他會氣到停下來。</p>
             <span class="go">開始玩</span>
           </div>
         </a>

diff --git a/aga/README.md b/aga/README.md
@@ -1,8 +1,8 @@
 # 阿嘎跟不上我吧
 
-「阿！跟不上我的速度吧，阿嘎！」一路往前跑，跳過機車、鏟過招牌，阿嘎在後面追。等他追到喘的時候回頭嗆他，看你能跑多遠。
+「阿！跟不上我的速度吧！阿嘎！」深夜的大道上只穿一條內褲往前衝，後面的阿嘎扛著攝影機在追。跳過機車、鏟過路牌，等他追到喘的時候回頭嗆他，看你能跑多遠。
 
-角色都是自己畫的卡通造型：跑在前面的是綁紅頭帶、穿白 T 的男生；後面追的「阿嘎」穿綠色運動外套、反戴黃帽子。
+角色都是自己畫的卡通造型：跑在前面的男生只穿一條白色內褲和球鞋；後面追的「阿嘎」戴帽子、揹包包，一路舉著攝影機在拍（畫面左上角有 REC 計時）。被追上的時候他會喊一聲「很累！」。
 
 ## 怎麼玩
 
@@ -31,14 +31,14 @@
 | 東西 | 怎麼過 | 出現在 |
 | --- | --- | --- |
 | 三角錐、垃圾桶、停著的機車、跑過來的狗 | 跳 | 各段 |
-| 布條、招牌、夜市攤位、低垂的樹枝 | 鏟過去（跳起來會撞到） | 各段 |
+| 停車場柵欄、路牌、騎樓招牌、施工警示帶 | 鏟過去（跳起來會撞到） | 各段 |
 | 水窪 | 跳過去；踩過去會滑一下 | 各段 |
 | 珍奶 | 吃到之後 2.5 秒跑快 35% | 隔一段路一杯，有的要跳起來才拿得到 |
 
 - 撞到東西會踉蹌：1 秒內速度掉到 35% 再慢慢恢復，阿嘎會趁機追近；撞到之後 1.1 秒內不會再被撞。
 - 東西之間的距離會隨速度拉開，跑越快間隔越大，不會出現跳不過的組合。
 
-跑過的地方：學校操場（0 公尺起）→ 騎樓街道（300）→ 夜市（700）→ 河濱夜跑（1,100）。
+一路都是深夜的大道：高架橋下（0 公尺起）→ 十字路口（300，紅綠燈、斑馬線、開過去的計程車）→ 騎樓店家前（700）→ 半夜空蕩的大道（1,100）。
 
 ## 分數和封號
 
@@ -46,13 +46,13 @@
 
 | 跑了幾公尺 | 封號 |
 | --- | --- |
-| 0 | 一下就被抓到 |
+| 0 | 一出門就被追上 |
 | 100 | 剛熱身 |
 | 300 | 有點快 |
-| 700 | 跑給阿嘎追專家 |
-| 1,100 | 夜市飛毛腿 |
-| 1,500 | 河濱一陣風 |
-| 2,000 | 阿嘎永遠追不上的男人 |
+| 700 | 跑過三個路口 |
+| 1,100 | 大道飛人 |
+| 1,500 | 半夜最快的男人 |
+| 2,000 | 阿嘎永遠跟不上的男人 |
 
 ## 聲音
 
